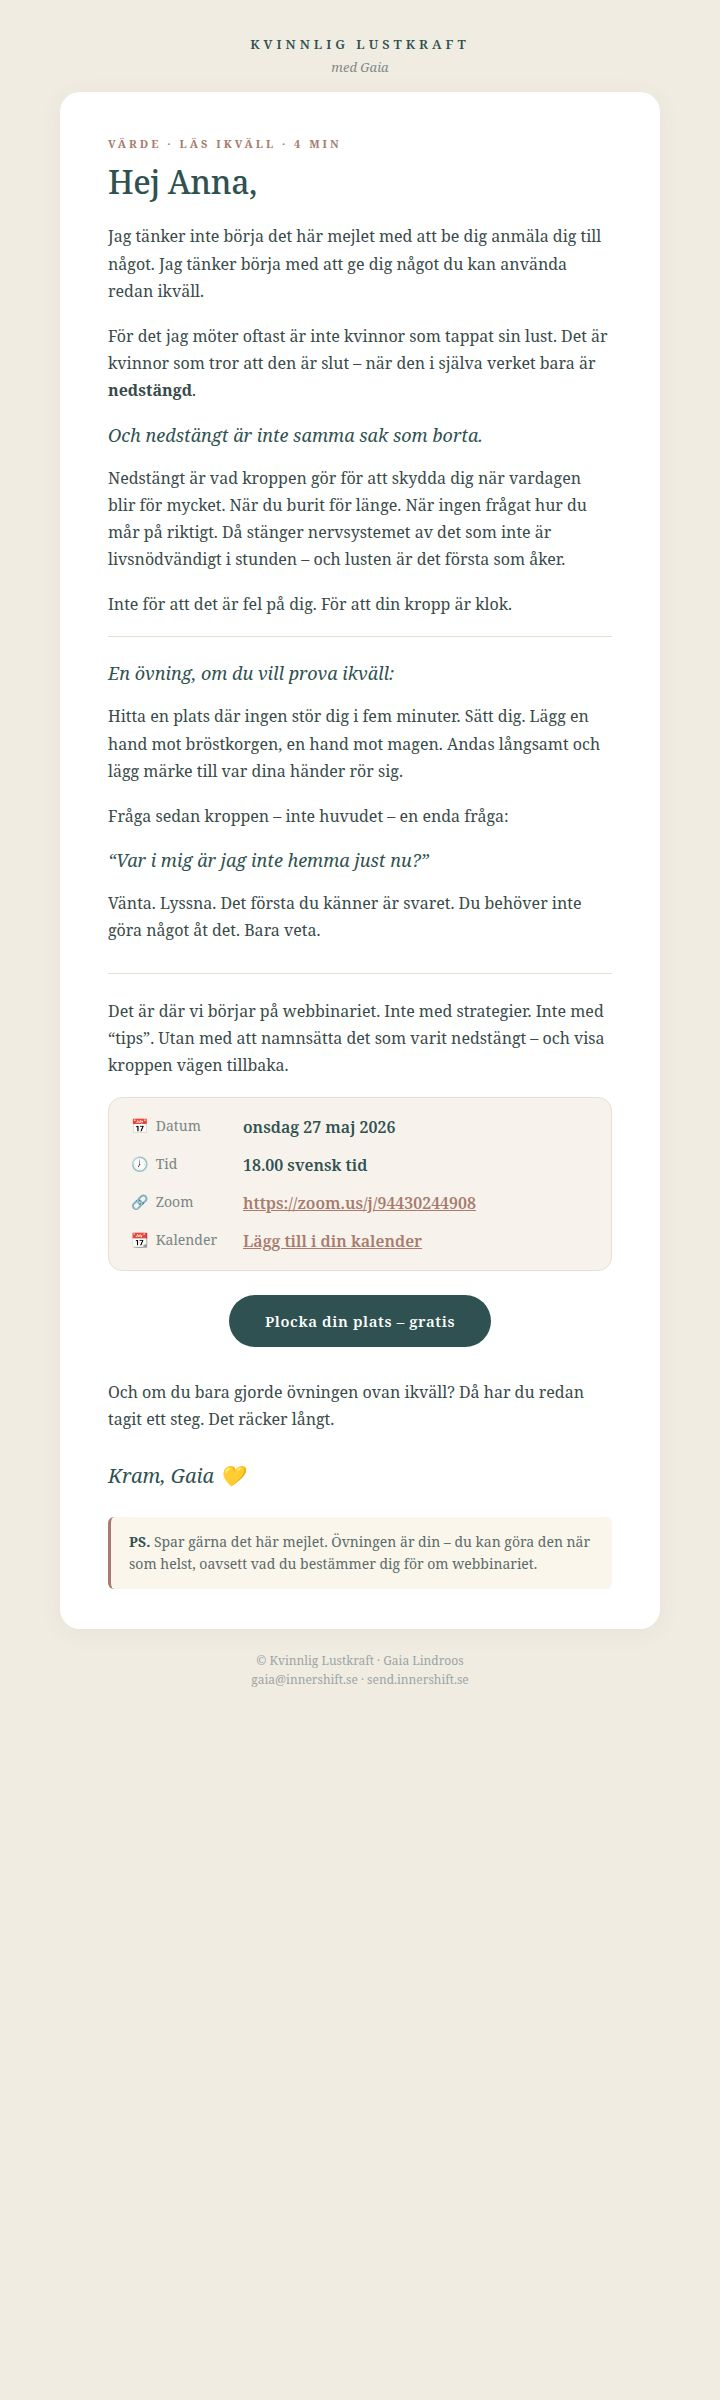
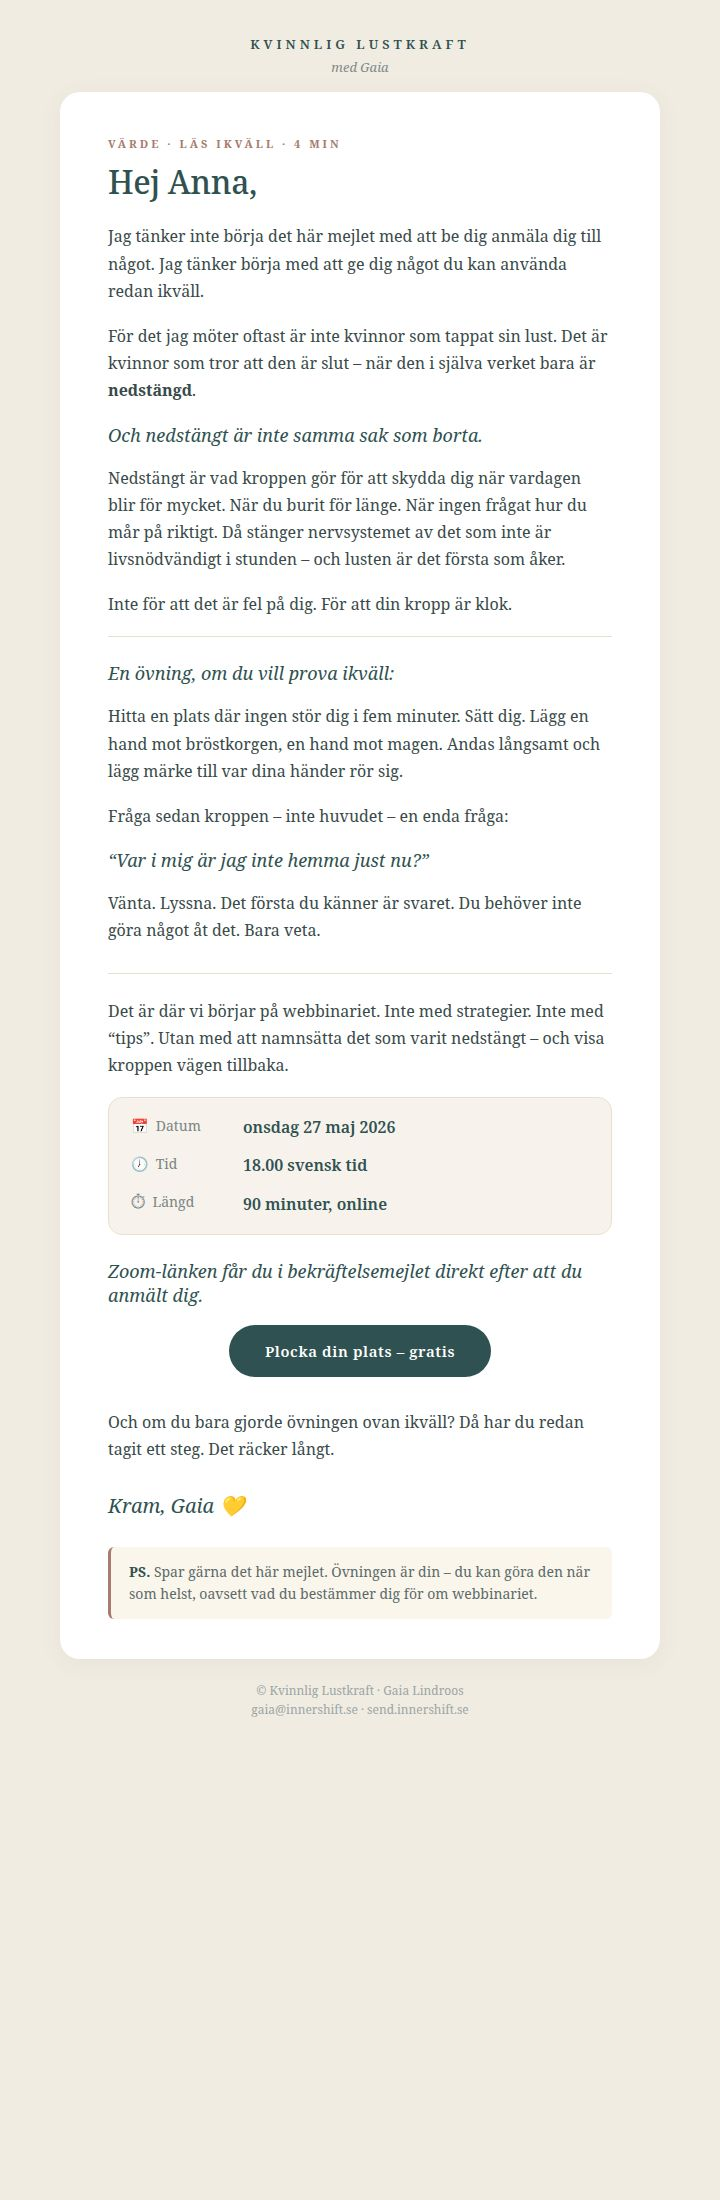
Update invitation emails to remove Zoom links before registration
Refactors all invitation email templates and plaintext versions to remove Zoom and calendar links, instructing users that these will be provided after registration. Updates metadata and a preview image accordingly.

Replit-Commit-Author: Agent
Replit-Commit-Session-Id: 8d92bf58-797e-4079-ab44-be1bf7eed624
Replit-Commit-Checkpoint-Type: full_checkpoint
Replit-Commit-Event-Id: fb5201f9-0d32-4f1c-a07b-b861db87052a
Replit-Commit-Screenshot-Url: https://storage.googleapis.com/screenshot-production-us-central1/c087090e-6721-47c2-9661-25eb5fb39205/8d92bf58-797e-4079-ab44-be1bf7eed624/ab0FVRA
Replit-Helium-Checkpoint-Created: true

Changed region(s): [[0.0611, 0.0, 0.9167, 0.7727]]

diff --git a/artifacts/kvinnlig-lustkraft/public/mejl-1-preview.html b/artifacts/kvinnlig-lustkraft/public/mejl-1-preview.html
@@ -66,14 +66,11 @@
         <td class="info-value" style="padding:8px 22px 8px 0;font-size:16px;color:#305151;font-weight:600;word-break:break-all;">18.00 svensk tid</td>
       </tr>
       <tr class="info-row">
-        <td class="info-label" style="padding:8px 22px 8px 22px;font-size:14px;color:#7a8585;width:90px;font-family:Georgia,'Times New Roman',serif;vertical-align:top;">🔗&nbsp; Zoom</td>
-        <td class="info-value" style="padding:8px 22px 8px 0;font-size:16px;color:#305151;font-weight:600;word-break:break-all;"><a href="https://zoom.us/j/94430244908" target="_blank" rel="noopener" style="color:#a87b6e;text-decoration:underline;font-weight:600;">https://zoom.us/j/94430244908</a></td>
-      </tr>
-      <tr class="info-row">
-        <td class="info-label" style="padding:8px 22px 18px 22px;font-size:14px;color:#7a8585;width:90px;font-family:Georgia,'Times New Roman',serif;vertical-align:top;">📆&nbsp; Kalender</td>
-        <td class="info-value" style="padding:8px 22px 18px 0;font-size:16px;color:#305151;font-weight:600;word-break:break-all;"><a href="https://calendarlink.com/event/Jd0K4" target="_blank" rel="noopener" style="color:#a87b6e;text-decoration:underline;font-weight:600;">Lägg till i din kalender</a></td>
+        <td class="info-label" style="padding:8px 22px 18px 22px;font-size:14px;color:#7a8585;width:90px;font-family:Georgia,'Times New Roman',serif;vertical-align:top;">⏱&nbsp; Längd</td>
+        <td class="info-value" style="padding:8px 22px 18px 0;font-size:16px;color:#305151;font-weight:600;word-break:break-all;">90 minuter, online</td>
       </tr>
   </table>
+      <p style="margin:0 0 18px 0;font-family:Georgia,'Times New Roman',serif;font-style:italic;font-size:18px;color:#305151;">Zoom-länken får du i bekräftelsemejlet direkt efter att du anmält dig.</p>
       
   <table role="presentation" width="100%" cellpadding="0" cellspacing="0" border="0" class="btn" style="margin:8px 0 32px 0;">
     <tr><td align="center">

diff --git a/artifacts/kvinnlig-lustkraft/src/lib/emails/invitations/inv-05-wed-1500.ts b/artifacts/kvinnlig-lustkraft/src/lib/emails/invitations/inv-05-wed-1500.ts
@@ -27,15 +27,9 @@ export const inv05WedAfternoon: EmailTemplate = {
       ${p("Du behöver inte komma med rätt frågor. Du behöver inte ha bestämt något. Du behöver inte ens ha kameran på.")}
       ${pLast("Du behöver bara dyka upp och låta kroppen lyssna.")}
       ${infoBox([
-        { label: "🕖&nbsp; Ikväll", value: "{{custom_values.time_of_the_webinar}}" },
-        {
-          label: "🔗&nbsp; Zoom",
-          value: `<a href="{{custom_values.webinar_zoom_link}}" target="_blank" rel="noopener" style="color:#a87b6e;text-decoration:underline;font-weight:600;">{{custom_values.webinar_zoom_link}}</a>`,
-        },
-        {
-          label: "📆&nbsp; Kalender",
-          value: `<a href="{{custom_values.webinar_add_to_calendar_link}}" target="_blank" rel="noopener" style="color:#a87b6e;text-decoration:underline;font-weight:600;">Lägg till i din kalender</a>`,
-        },
+        { label: "📅&nbsp; Idag", value: "{{custom_values.date_of_the_webinar}}" },
+        { label: "🕖&nbsp; Ikväll", value: "{{custom_values.time_of_the_webinar}} svensk tid" },
+        { label: "📍&nbsp; Var", value: "Online – anmäl dig nedan så får du Zoom-länken direkt" },
       ])}
       ${cta("Jag är med ikväll", "webinar_registration_link")}
       ${pLast("Vi ses om några timmar.")}

diff --git a/artifacts/kvinnlig-lustkraft/src/lib/emails/invitations/inv-01-today-1900.ts b/artifacts/kvinnlig-lustkraft/src/lib/emails/invitations/inv-01-today-1900.ts
@@ -41,15 +41,9 @@ export const inv01TodayEvening: EmailTemplate = {
       ${infoBox([
         { label: "📅&nbsp; Datum", value: "{{custom_values.date_of_the_webinar}}" },
         { label: "🕖&nbsp; Tid", value: "{{custom_values.time_of_the_webinar}} svensk tid" },
-        {
-          label: "🔗&nbsp; Zoom",
-          value: `<a href="{{custom_values.webinar_zoom_link}}" target="_blank" rel="noopener" style="color:#a87b6e;text-decoration:underline;font-weight:600;">{{custom_values.webinar_zoom_link}}</a>`,
-        },
-        {
-          label: "📆&nbsp; Kalender",
-          value: `<a href="{{custom_values.webinar_add_to_calendar_link}}" target="_blank" rel="noopener" style="color:#a87b6e;text-decoration:underline;font-weight:600;">Lägg till i din kalender</a>`,
-        },
+        { label: "⏱&nbsp; Längd", value: "90 minuter, online" },
       ])}
+      ${italic("Zoom-länken får du i bekräftelsemejlet direkt efter att du anmält dig.")}
       ${cta("Plocka din plats – gratis", "webinar_registration_link")}
       ${pLast("Och om du bara gjorde övningen ovan ikväll? Då har du redan tagit ett steg. Det räcker långt.")}
       ${signOff()}

diff --git a/artifacts/kvinnlig-lustkraft/src/lib/emails/invitations/inv-02-fri-morning.ts b/artifacts/kvinnlig-lustkraft/src/lib/emails/invitations/inv-02-fri-morning.ts
@@ -42,15 +42,9 @@ export const inv02FriMorning: EmailTemplate = {
       ${infoBox([
         { label: "📅&nbsp; Datum", value: "{{custom_values.date_of_the_webinar}}" },
         { label: "🕖&nbsp; Tid", value: "{{custom_values.time_of_the_webinar}} svensk tid" },
-        {
-          label: "🔗&nbsp; Zoom",
-          value: `<a href="{{custom_values.webinar_zoom_link}}" target="_blank" rel="noopener" style="color:#a87b6e;text-decoration:underline;font-weight:600;">{{custom_values.webinar_zoom_link}}</a>`,
-        },
-        {
-          label: "📆&nbsp; Kalender",
-          value: `<a href="{{custom_values.webinar_add_to_calendar_link}}" target="_blank" rel="noopener" style="color:#a87b6e;text-decoration:underline;font-weight:600;">Lägg till i din kalender</a>`,
-        },
+        { label: "💛&nbsp; Pris", value: "Gratis" },
       ])}
+      ${italic("Anmäl dig nedan – Zoom-länken kommer i bekräftelsemejlet direkt.")}
       ${cta("Jag vill vara med", "webinar_registration_link")}
       ${pLast("Vilken av de tre myterna kände du igen mest? Svara gärna på mejlet – jag läser allt.")}
       ${signOff()}

diff --git a/artifacts/kvinnlig-lustkraft/src/lib/emails/invitations/inv-04-wed-1000.ts b/artifacts/kvinnlig-lustkraft/src/lib/emails/invitations/inv-04-wed-1000.ts
@@ -35,14 +35,7 @@ export const inv04WedMorning: EmailTemplate = {
       ${infoBox([
         { label: "📅&nbsp; Idag", value: "{{custom_values.date_of_the_webinar}}" },
         { label: "🕖&nbsp; Klockan", value: "{{custom_values.time_of_the_webinar}}" },
-        {
-          label: "🔗&nbsp; Zoom",
-          value: `<a href="{{custom_values.webinar_zoom_link}}" target="_blank" rel="noopener" style="color:#a87b6e;text-decoration:underline;font-weight:600;">{{custom_values.webinar_zoom_link}}</a>`,
-        },
-        {
-          label: "📆&nbsp; Kalender",
-          value: `<a href="{{custom_values.webinar_add_to_calendar_link}}" target="_blank" rel="noopener" style="color:#a87b6e;text-decoration:underline;font-weight:600;">Lägg till i din kalender</a>`,
-        },
+        { label: "📍&nbsp; Var", value: "Online – Zoom-länken får du direkt efter anmälan" },
       ])}
       ${cta("Säkra min plats", "webinar_registration_link")}
       ${pLast("Lägg in det i kalendern nu om du inte redan gjort det. Stäng dörren. Häll upp något varmt. Det är din tid.")}

diff --git a/artifacts/kvinnlig-lustkraft/src/lib/emails/invitations/inv-03-fri-evening.ts b/artifacts/kvinnlig-lustkraft/src/lib/emails/invitations/inv-03-fri-evening.ts
@@ -40,14 +40,7 @@ export const inv03FriEvening: EmailTemplate = {
       ${infoBox([
         { label: "📅&nbsp; Datum", value: "{{custom_values.date_of_the_webinar}}" },
         { label: "🕖&nbsp; Tid", value: "{{custom_values.time_of_the_webinar}} svensk tid" },
-        {
-          label: "🔗&nbsp; Zoom",
-          value: `<a href="{{custom_values.webinar_zoom_link}}" target="_blank" rel="noopener" style="color:#a87b6e;text-decoration:underline;font-weight:600;">{{custom_values.webinar_zoom_link}}</a>`,
-        },
-        {
-          label: "📆&nbsp; Kalender",
-          value: `<a href="{{custom_values.webinar_add_to_calendar_link}}" target="_blank" rel="noopener" style="color:#a87b6e;text-decoration:underline;font-weight:600;">Lägg till i din kalender</a>`,
-        },
+        { label: "📍&nbsp; Var", value: "Online – du får länken efter anmälan" },
       ])}
       ${cta("Plocka din plats", "webinar_registration_link")}
       ${pLast("Du behöver inte vara redo. Du behöver bara vara nyfiken.")}

diff --git a/artifacts/kvinnlig-lustkraft/src/lib/emails/invitations/inv-all-plaintext.md b/artifacts/kvinnlig-lustkraft/src/lib/emails/invitations/inv-all-plaintext.md
@@ -3,6 +3,9 @@
 Webbinarium: Kvinnlig Lustkraft med Gaia Lindroos
 Datum: onsdag 27 maj 2026, kl 18:00 svensk tid
 
+OBS: Zoom-länken skickas i bekräftelsemejlet direkt efter anmälan
+— därför nämns den inte här. Alla CTA leder till anmälningssidan.
+
 Sändschema:
 - Mejl 1 — tors 21 maj, 19:00
 - Mejl 2 — fre 22 maj, 09:00
@@ -46,10 +49,7 @@ Det är där vi börjar på webbinariet 💛
    Datum: {{custom_values.date_of_the_webinar}}
    Tid: {{custom_values.time_of_the_webinar}} svensk tid
 
-Zoom-länk (spara den – samma länk vi använder ikväll):
-{{custom_values.webinar_zoom_link}}
-
-Anmälan om du inte gjort det än:
+Anmäl dig här (Zoom-länken kommer i bekräftelsemejlet direkt):
 {{custom_values.webinar_registration_link}}
 
 Och om du bara gjorde övningen ovan? Då har du redan tagit ett steg. Det räcker långt.
@@ -87,10 +87,7 @@ På webbinariet visar jag dig vad som faktiskt händer i kroppen – och varför
    Datum: {{custom_values.date_of_the_webinar}}
    Tid: {{custom_values.time_of_the_webinar}} svensk tid
 
-Zoom-länk:
-{{custom_values.webinar_zoom_link}}
-
-Anmälan:
+Anmäl dig här (Zoom-länken kommer i bekräftelsen):
 {{custom_values.webinar_registration_link}}
 
 Vilken myt kände du igen mest? Svara gärna – jag läser allt.
@@ -131,10 +128,7 @@ Maria är inte speciell. Hon är som du. Hon hade bara aldrig fått veta att det
    Datum: {{custom_values.date_of_the_webinar}}
    Tid: {{custom_values.time_of_the_webinar}} svensk tid
 
-Zoom-länk:
-{{custom_values.webinar_zoom_link}}
-
-Anmälan:
+Anmäl dig här (Zoom-länken kommer i bekräftelsemejlet direkt):
 {{custom_values.webinar_registration_link}}
 
 Du behöver inte vara redo. Du behöver bara vara nyfiken.
@@ -171,13 +165,7 @@ Det här är inte teori. Det är vad jag sett fungera, gång på gång, med tuse
    Datum: {{custom_values.date_of_the_webinar}}
    Klockan: {{custom_values.time_of_the_webinar}}
 
-Zoom-länk (spara den – samma länk vi använder ikväll):
-{{custom_values.webinar_zoom_link}}
-
-Lägg till i din kalender:
-{{custom_values.webinar_add_to_calendar_link}}
-
-Anmälan om du inte gjort det än:
+Anmäl dig här – Zoom-länken kommer direkt i bekräftelsemejlet:
 {{custom_values.webinar_registration_link}}
 
 Lägg in det i kalendern nu om du inte redan gjort det. Stäng dörren. Häll upp något varmt. Det är din tid.
@@ -207,13 +195,10 @@ Du behöver inte komma med rätt frågor. Du behöver inte ha bestämt något. D
 
 Du behöver bara dyka upp och låta kroppen lyssna.
 
-   Ikväll: {{custom_values.time_of_the_webinar}}
+   Ikväll: {{custom_values.time_of_the_webinar}} svensk tid
 
-Zoom-länk:
-{{custom_values.webinar_zoom_link}}
-
-Lägg till i din kalender:
-{{custom_values.webinar_add_to_calendar_link}}
+Anmäl dig nu – Zoom-länken kommer direkt i bekräftelsemejlet:
+{{custom_values.webinar_registration_link}}
 
 Vi ses om några timmar.
 

diff --git a/artifacts/kvinnlig-lustkraft/src/lib/emails/invitations/inv-04-plaintext.md b/artifacts/kvinnlig-lustkraft/src/lib/emails/invitations/inv-04-plaintext.md
@@ -22,13 +22,7 @@ Det här är inte teori. Det är vad jag sett fungera, gång på gång, med tuse
    Datum: {{custom_values.date_of_the_webinar}}
    Klockan: {{custom_values.time_of_the_webinar}}
 
-Zoom-länk (spara den – samma länk vi använder ikväll):
-{{custom_values.webinar_zoom_link}}
-
-Lägg till i din kalender:
-{{custom_values.webinar_add_to_calendar_link}}
-
-Anmälan om du inte gjort det än:
+Anmäl dig här – Zoom-länken kommer direkt i bekräftelsemejlet:
 {{custom_values.webinar_registration_link}}
 
 Lägg in det i kalendern nu om du inte redan gjort det. Stäng dörren. Häll upp något varmt. Det är din tid.

diff --git a/artifacts/kvinnlig-lustkraft/src/lib/emails/invitations/inv-05-plaintext.md b/artifacts/kvinnlig-lustkraft/src/lib/emails/invitations/inv-05-plaintext.md
@@ -15,13 +15,10 @@ Du behöver inte komma med rätt frågor. Du behöver inte ha bestämt något. D
 
 Du behöver bara dyka upp och låta kroppen lyssna.
 
-   Ikväll: {{custom_values.time_of_the_webinar}}
+   Ikväll: {{custom_values.time_of_the_webinar}} svensk tid
 
-Zoom-länk:
-{{custom_values.webinar_zoom_link}}
-
-Lägg till i din kalender:
-{{custom_values.webinar_add_to_calendar_link}}
+Anmäl dig nu – Zoom-länken kommer direkt i bekräftelsemejlet:
+{{custom_values.webinar_registration_link}}
 
 Vi ses om några timmar.
 

diff --git a/artifacts/kvinnlig-lustkraft/src/lib/emails/invitations/inv-plaintext.md b/artifacts/kvinnlig-lustkraft/src/lib/emails/invitations/inv-plaintext.md
@@ -30,10 +30,7 @@ Det är där vi börjar på webbinariet 💛
    Datum: {{custom_values.date_of_the_webinar}}
    Tid: {{custom_values.time_of_the_webinar}} svensk tid
 
-Zoom-länk (spara den – samma länk vi använder ikväll):
-{{custom_values.webinar_zoom_link}}
-
-Anmälan om du inte gjort det än:
+Anmäl dig här (Zoom-länken kommer i bekräftelsemejlet direkt):
 {{custom_values.webinar_registration_link}}
 
 Och om du bara gjorde övningen ovan? Då har du redan tagit ett steg. Det räcker långt.

diff --git a/artifacts/kvinnlig-lustkraft/src/lib/emails/invitations/inv-03-plaintext.md b/artifacts/kvinnlig-lustkraft/src/lib/emails/invitations/inv-03-plaintext.md
@@ -26,10 +26,7 @@ Maria är inte speciell. Hon är som du. Hon hade bara aldrig fått veta att det
    Datum: {{custom_values.date_of_the_webinar}}
    Tid: {{custom_values.time_of_the_webinar}} svensk tid
 
-Zoom-länk:
-{{custom_values.webinar_zoom_link}}
-
-Anmälan:
+Anmäl dig här (Zoom-länken kommer i bekräftelsemejlet direkt):
 {{custom_values.webinar_registration_link}}
 
 Du behöver inte vara redo. Du behöver bara vara nyfiken.

diff --git a/artifacts/kvinnlig-lustkraft/src/lib/emails/invitations/inv-02-plaintext.md b/artifacts/kvinnlig-lustkraft/src/lib/emails/invitations/inv-02-plaintext.md
@@ -23,10 +23,7 @@ På webbinariet visar jag dig vad som faktiskt händer i kroppen – och varför
    Datum: {{custom_values.date_of_the_webinar}}
    Tid: {{custom_values.time_of_the_webinar}} svensk tid
 
-Zoom-länk:
-{{custom_values.webinar_zoom_link}}
-
-Anmälan:
+Anmäl dig här (Zoom-länken kommer i bekräftelsen):
 {{custom_values.webinar_registration_link}}
 
 Vilken myt kände du igen mest? Svara gärna – jag läser allt.
